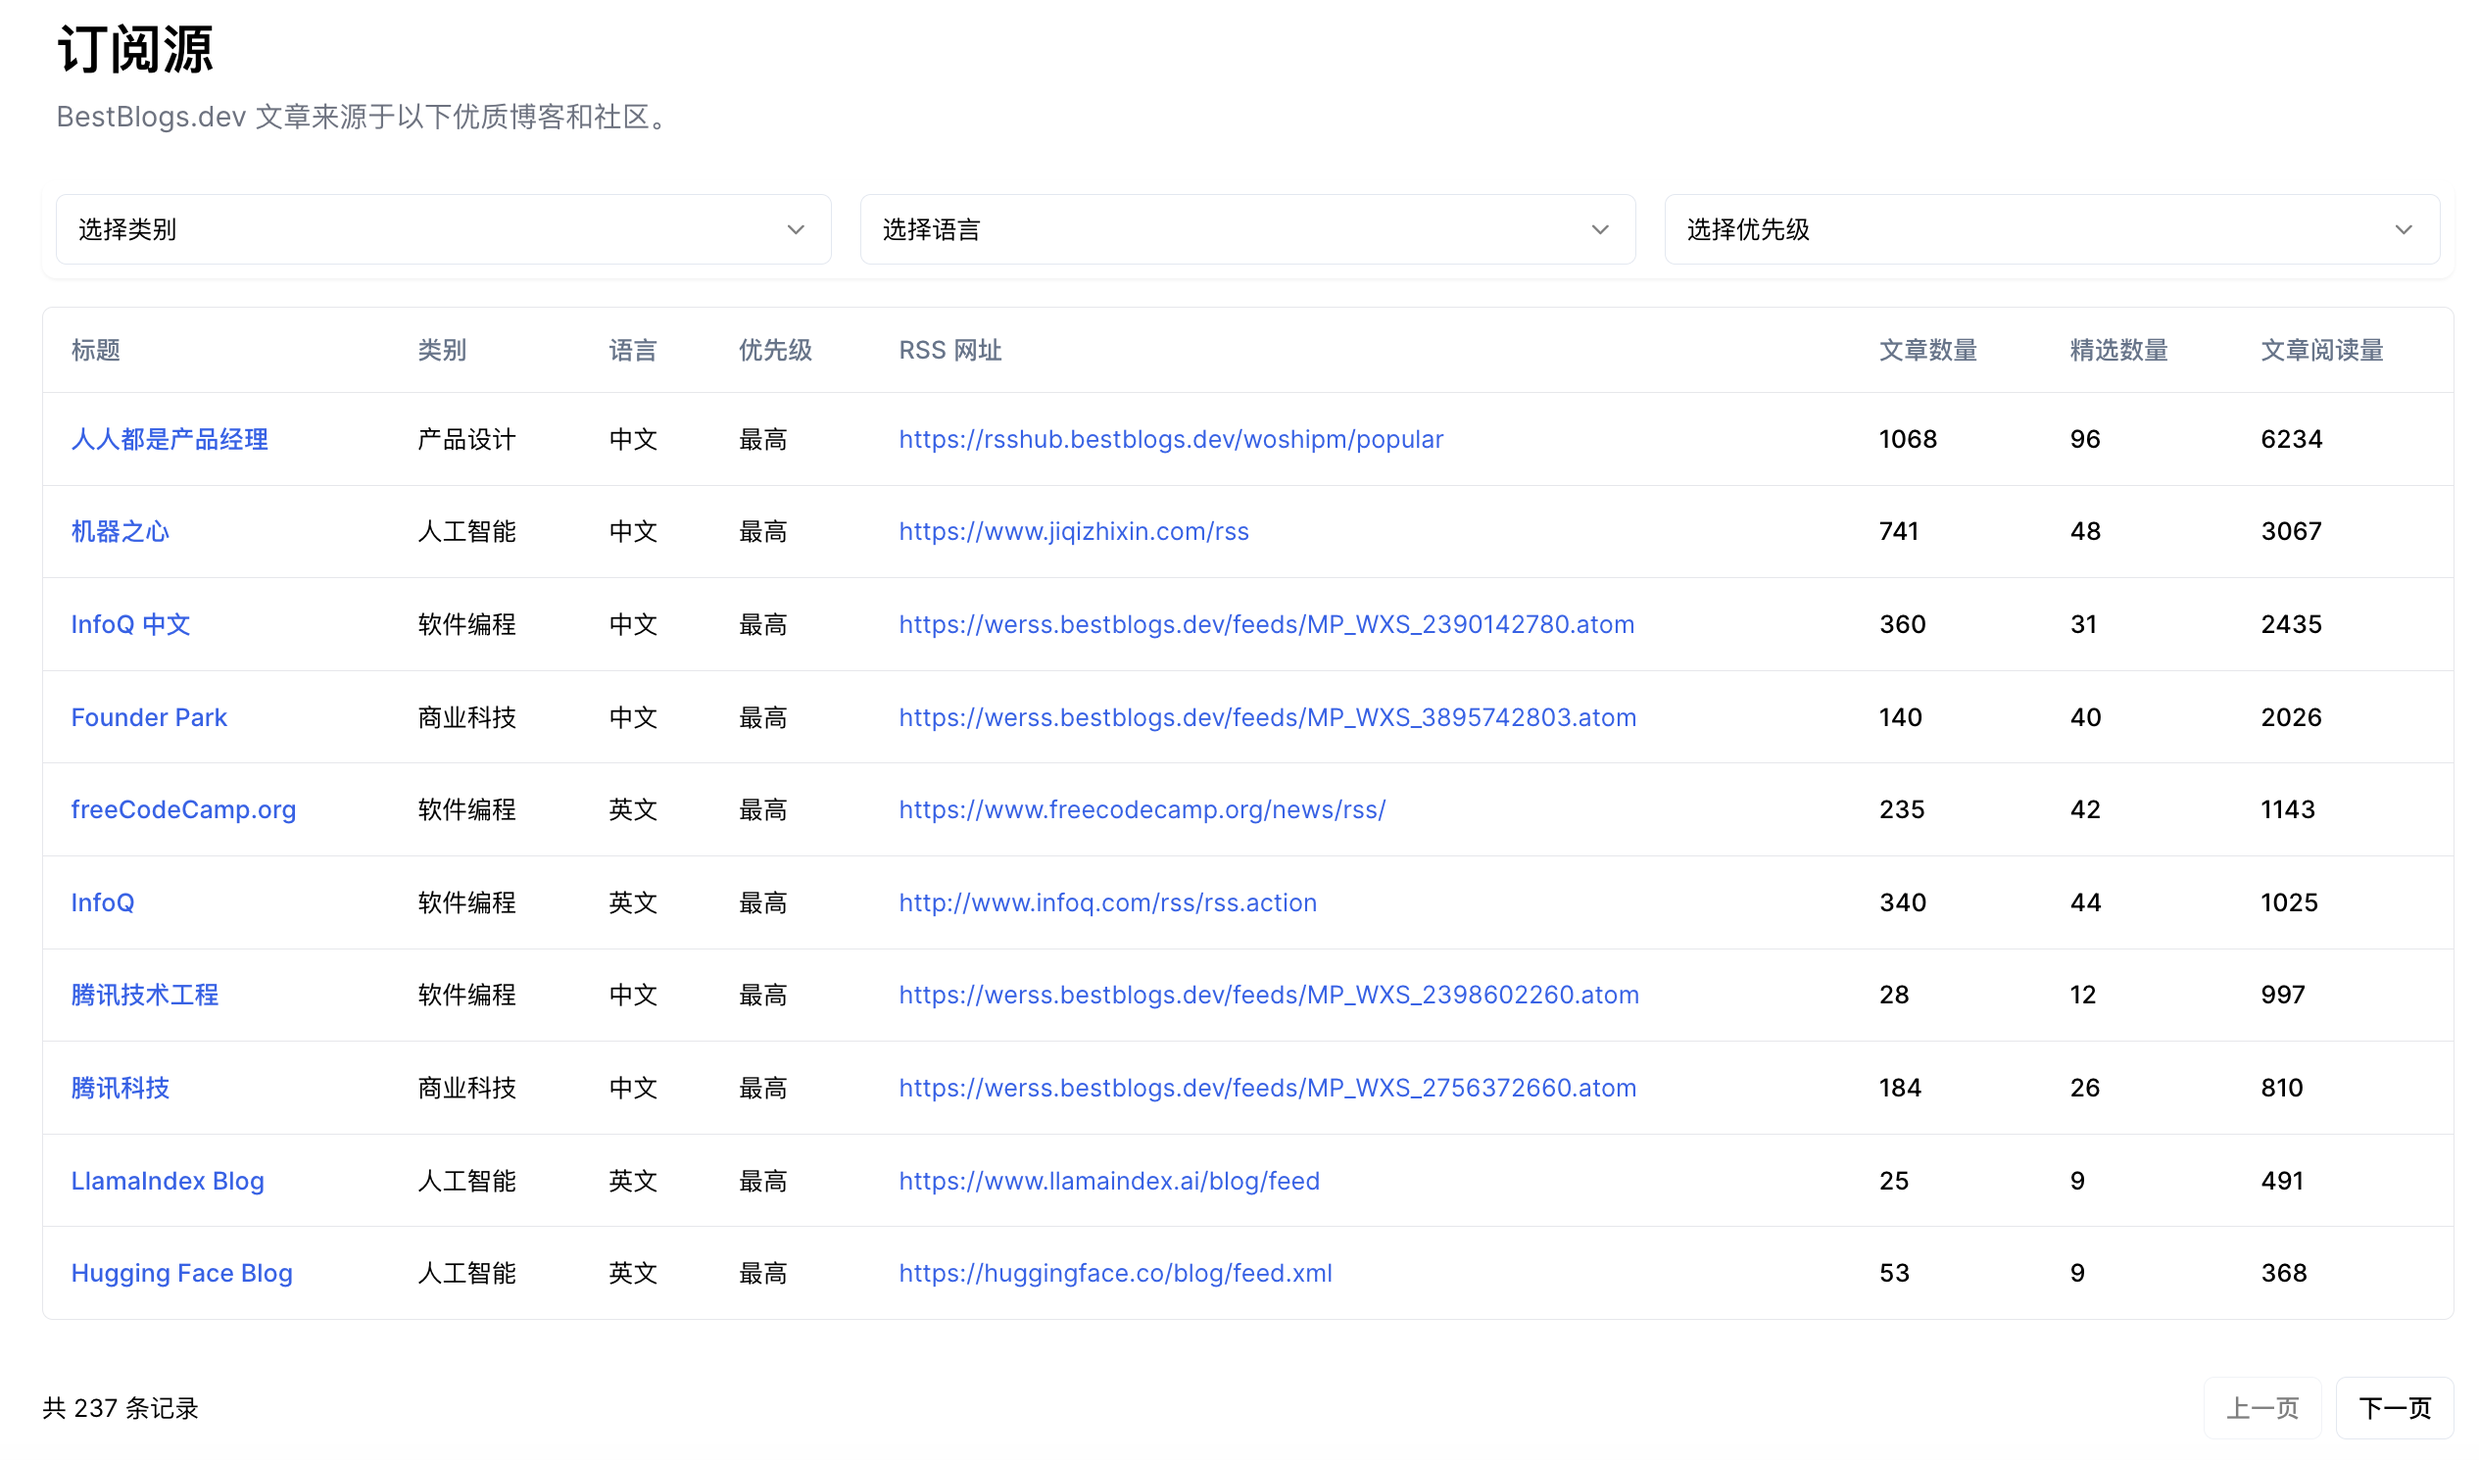
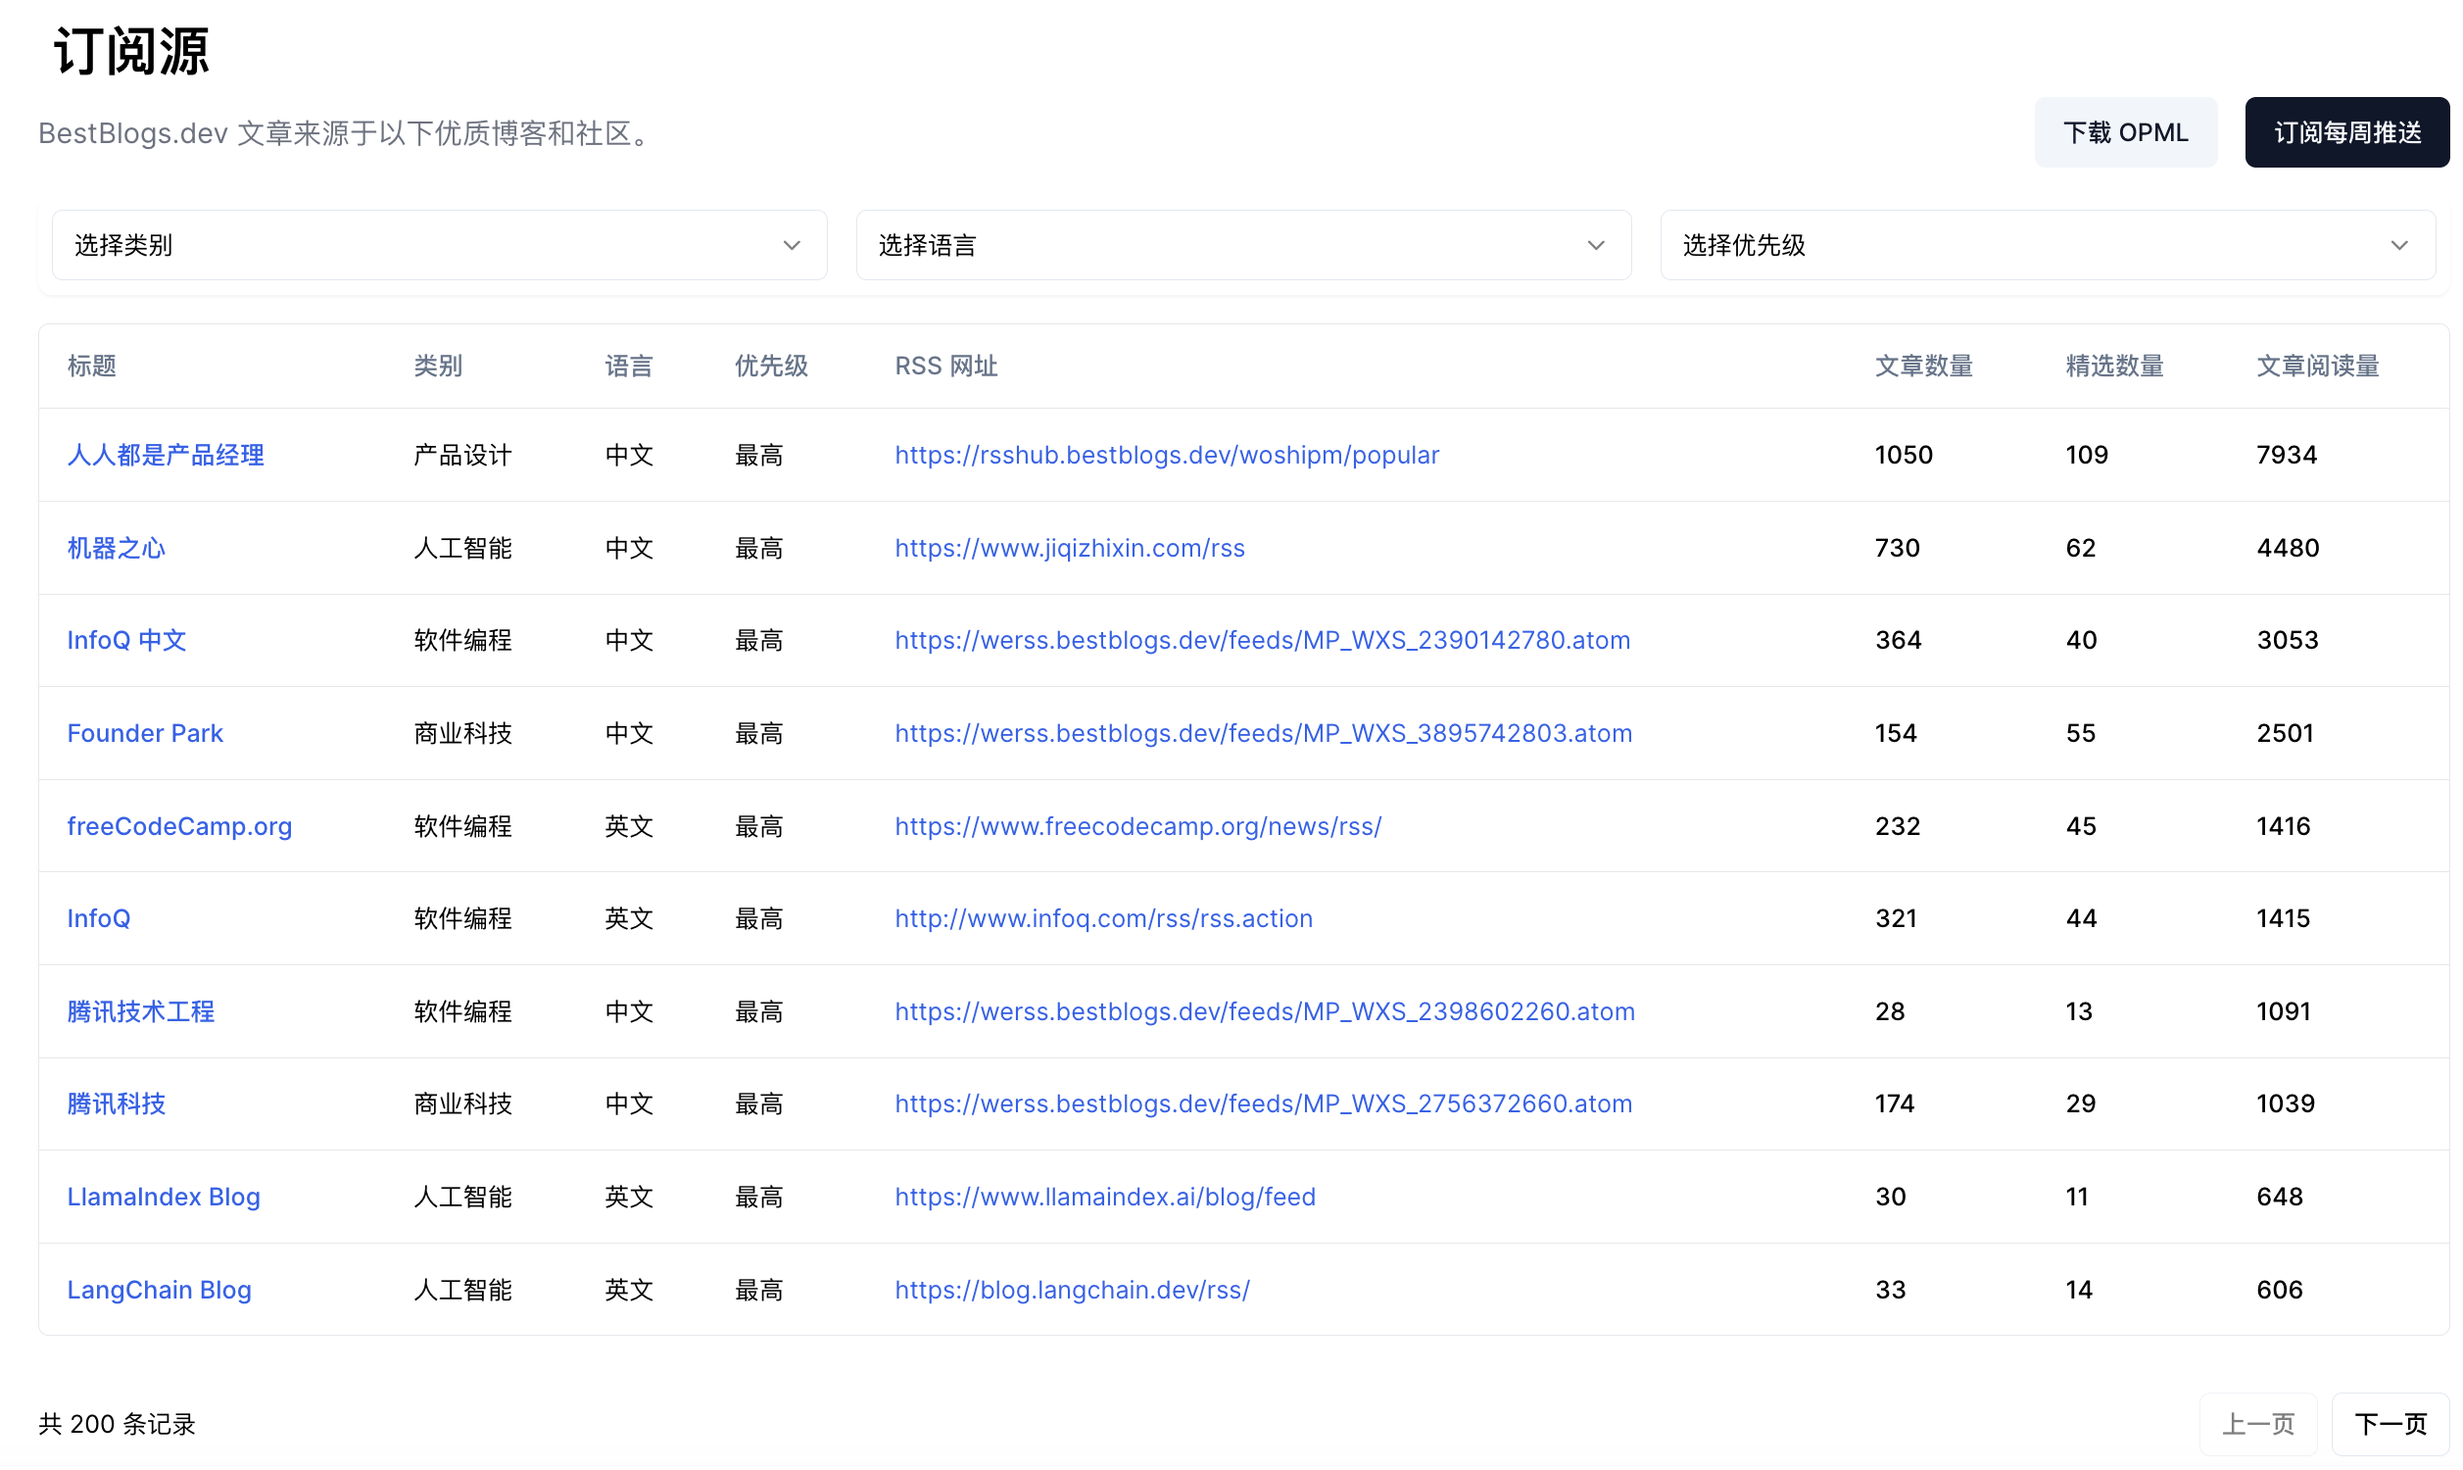
reduce RSS sources count to 200

diff --git a/README.md b/README.md
@@ -18,7 +18,7 @@ bestblogs.dev 为您提供独特的编程、人工智能、产品设计、商业
 
 ## RSS 源
 
-网站文章来源于以下所有 RSS 订阅源（240个）：
+网站文章来源于以下所有 RSS 订阅源（200个）：
 
 https://github.com/ginobefun/BestBlogs/blob/main/BestBlogsRSS.opml
 
